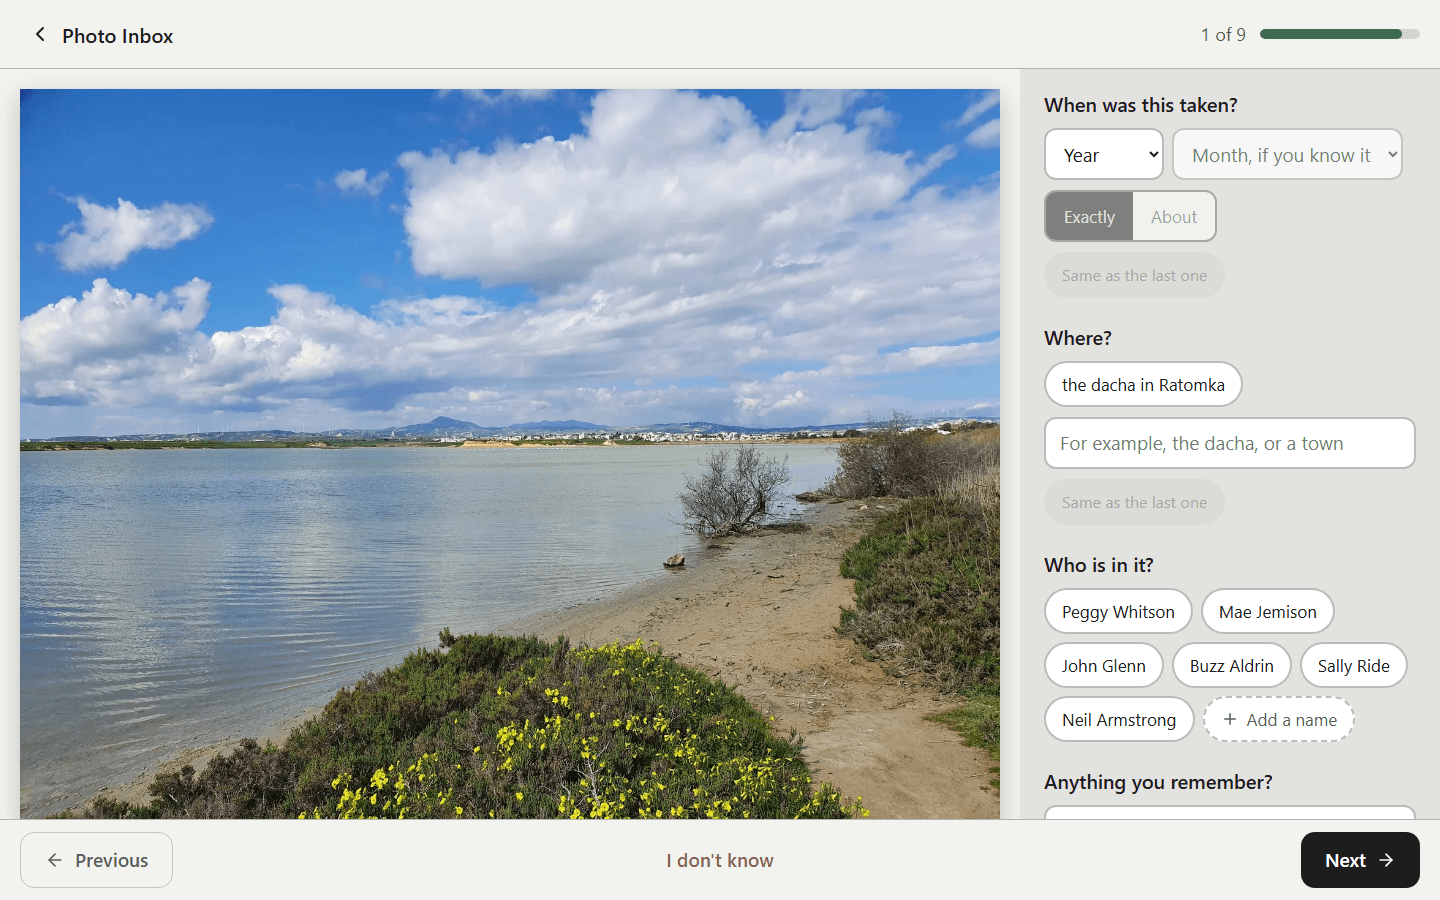
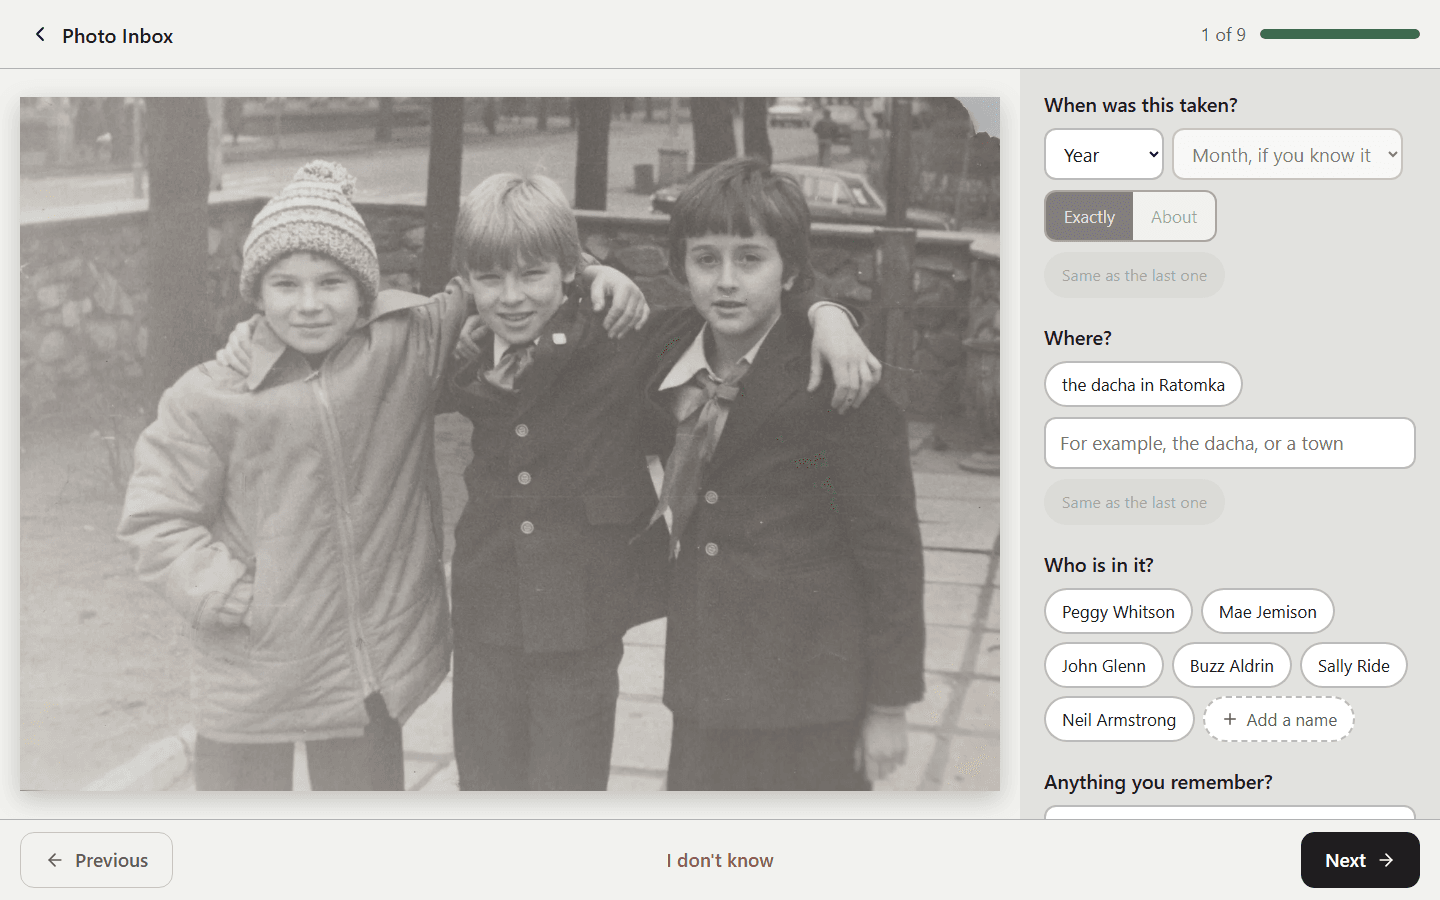
release: 3.81.1 - pictures of the viewer
The Gallery guide gains the viewer's three tabs and two screenshots: the
Details tab beside a photo, and the New recording dialog. Review mode's
picture is refreshed.

diff --git a/apps/server/src/changelog.ts b/apps/server/src/changelog.ts
@@ -19,6 +19,13 @@ export const RECENT_VERSION_COUNT = 10;
 
 export const VERSION_UPDATES: VersionUpdate[] = [
   {
+    version: "3.81.1",
+    label: "Pictures of the viewer",
+    changes: [
+      "The Gallery guide under Help now describes the viewer's three tabs and shows the viewer with its Details tab open, and has a section on recordings with a picture of the New recording dialog. The Review mode picture in the Photo Inbox guide is refreshed."
+    ]
+  },
+  {
     version: "3.81.0",
     label: "A photo's details, in three tabs",
     changes: [

diff --git a/docs/users/library-gallery.md b/docs/users/library-gallery.md
@@ -59,9 +59,27 @@ time:
 ## Viewing
 
 Click a photo to open the viewer. From there: pan and zoom, step through with
-the arrow keys, see details in the info panel, rotate, like, share, or add
-to an album or slideshow. Videos play inline; a format the browser can't decode
-is offered as a download, and the server can transcode a web-playable copy.
+the arrow keys, rotate, like, send, or add to an album or slideshow. The panel
+down the right has three tabs. **Details** is what the family knows about the
+photo: when and where it was taken, who is in it, tags, the description,
+recordings, and the notes people leave under it. **Map** is the pin, with a
+search box for marking or moving it. **File** is what the camera and the disk
+know, with Rotate and Replace file underneath. Videos play inline; a format the
+browser can't decode is offered as a download, and the server can transcode a
+web-playable copy.
+
+![The viewer, with the Details tab open beside the photo](images/37-gallery-lightbox.png)
+
+**Recordings** are voice memories kept on the photo. Press **Record** on the
+Details tab: one big button starts and stops, the waveform shows the microphone
+is hearing you, and the take plays back before you save it, with Record again
+and Discard beside Save. Each saved recording is a line with a play button;
+pressing one loads it into the player above the list, which draws the
+recording's wave and lets you jump around in it. Recording needs the app opened
+over https, or on the server itself, since browsers allow the microphone only
+there.
+
+![Recording a voice memory: press once to start, once to stop, then listen back before saving](images/38-gallery-recording.png)
 
 Rotation works for videos too — a clip filmed sideways turns upright in the
 viewer and in its thumbnails, and keeps playing while you turn it.
